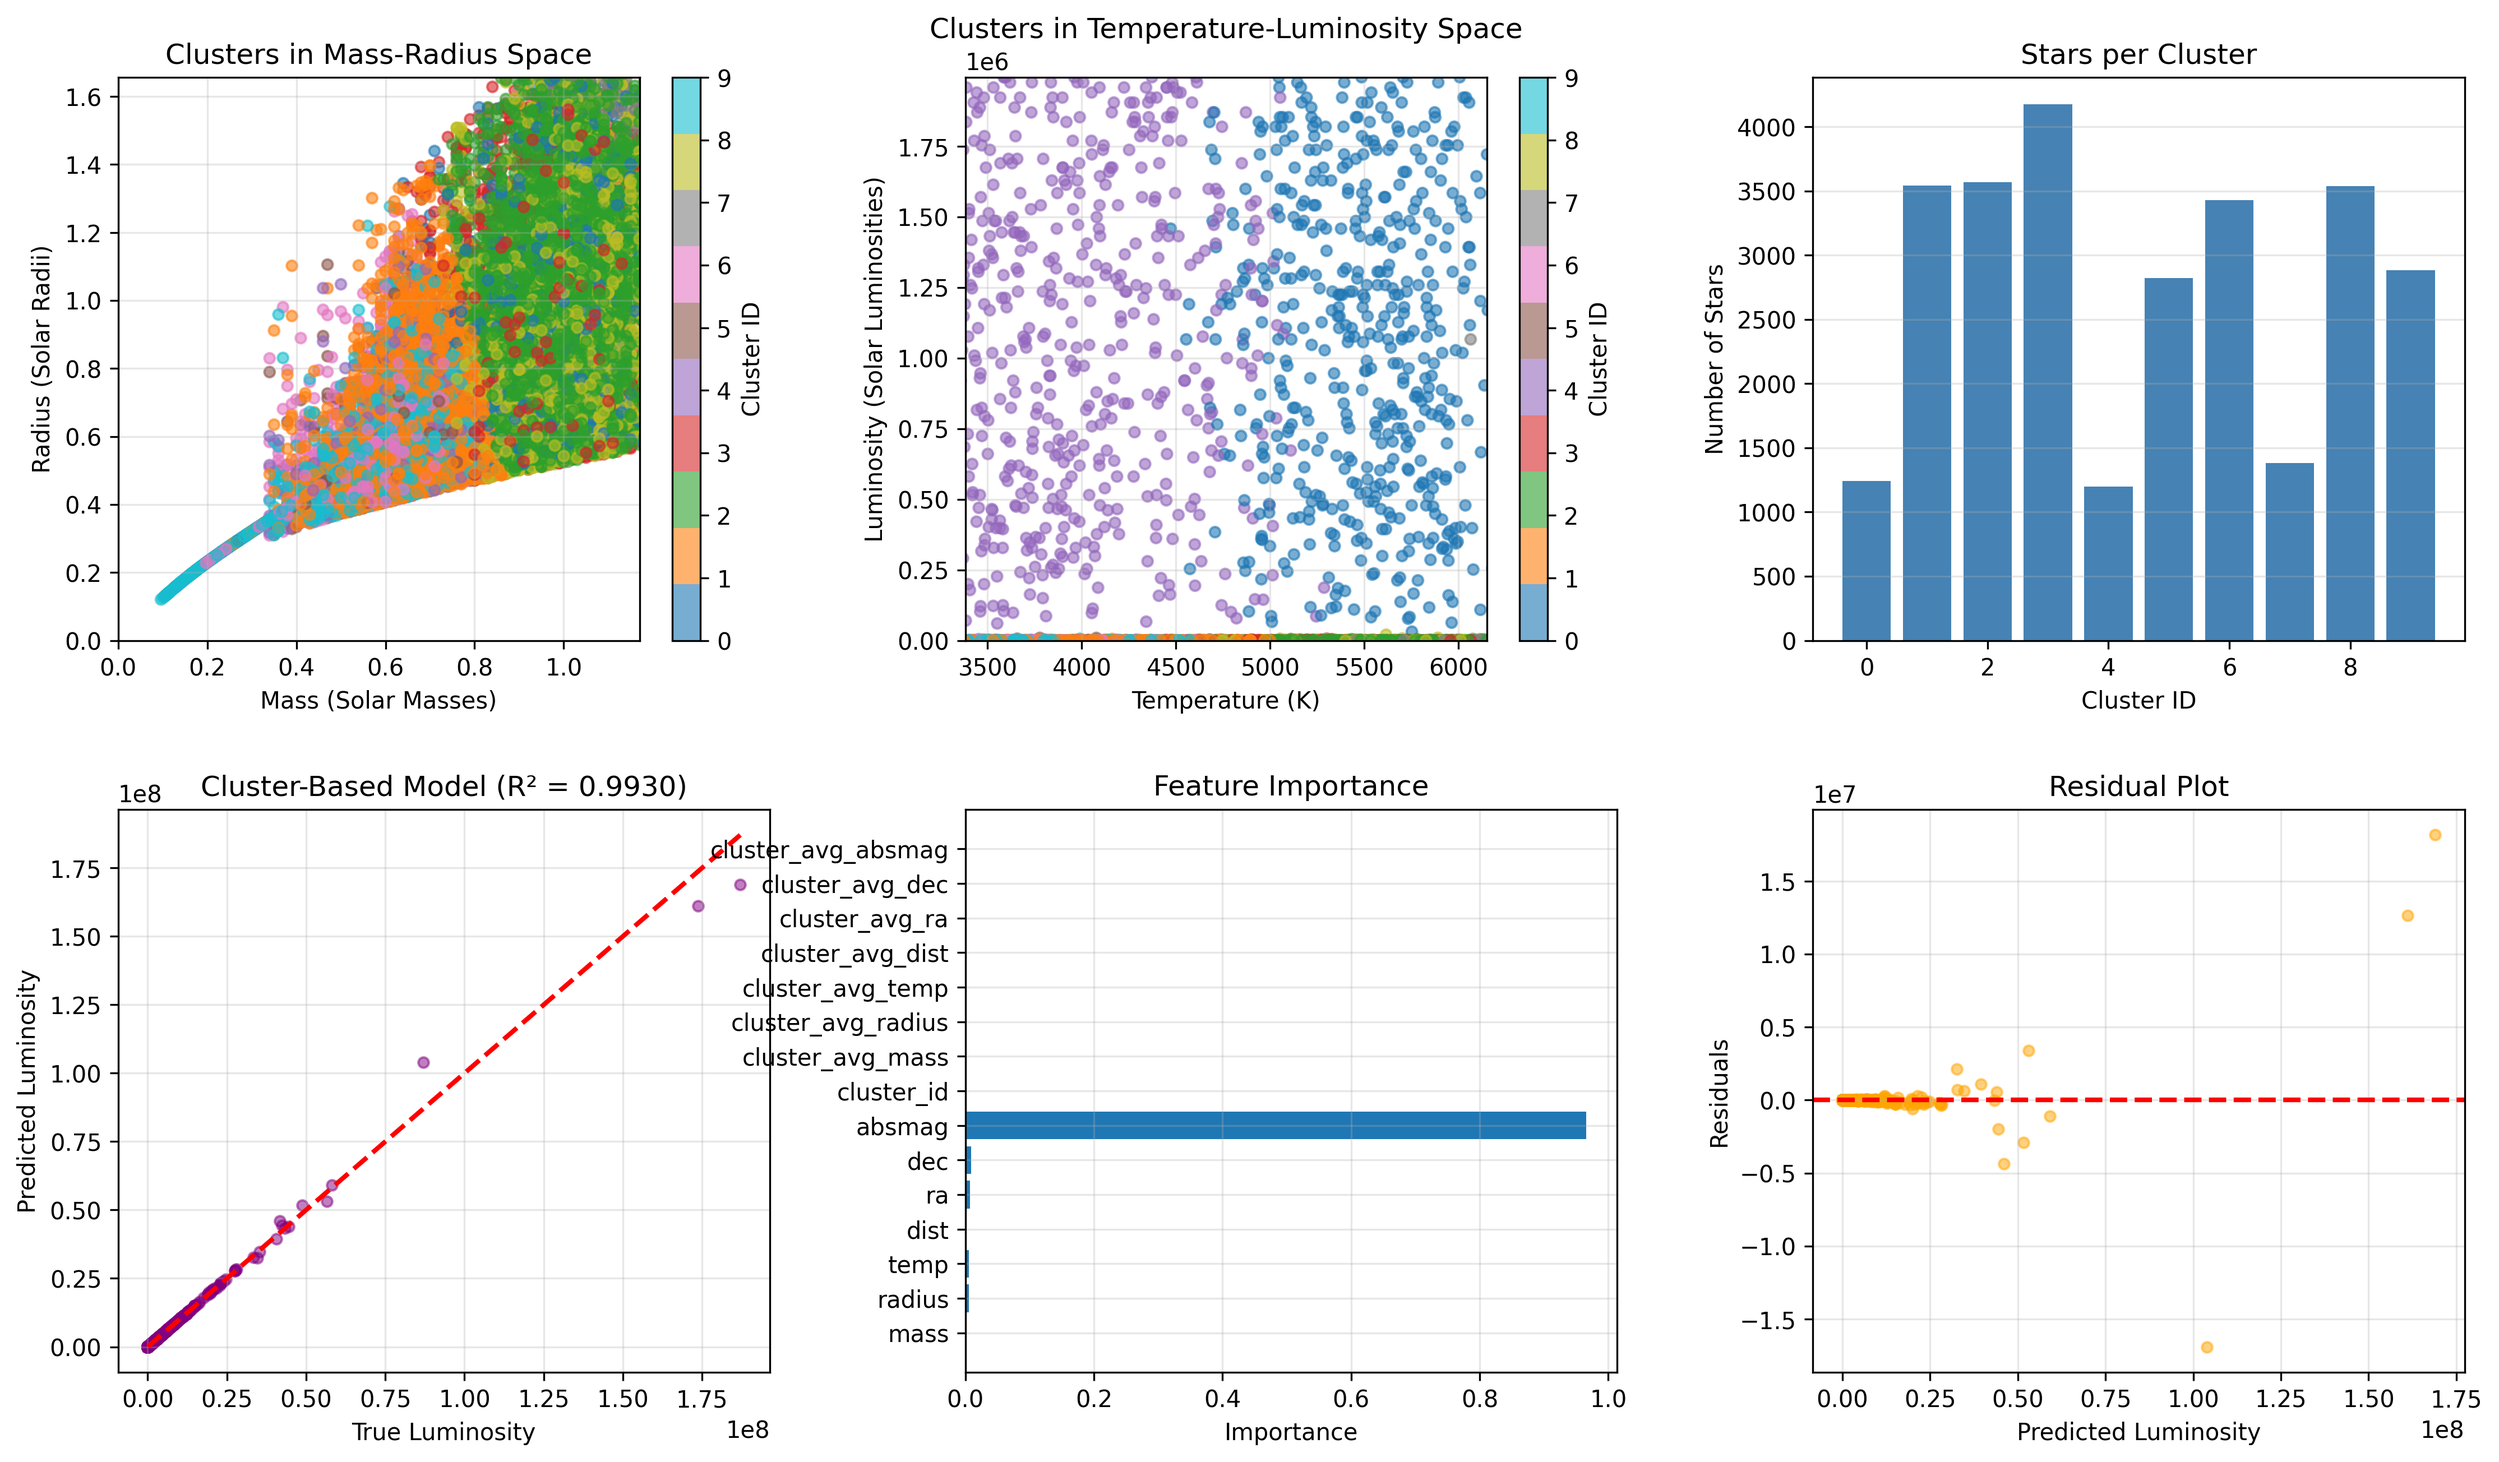
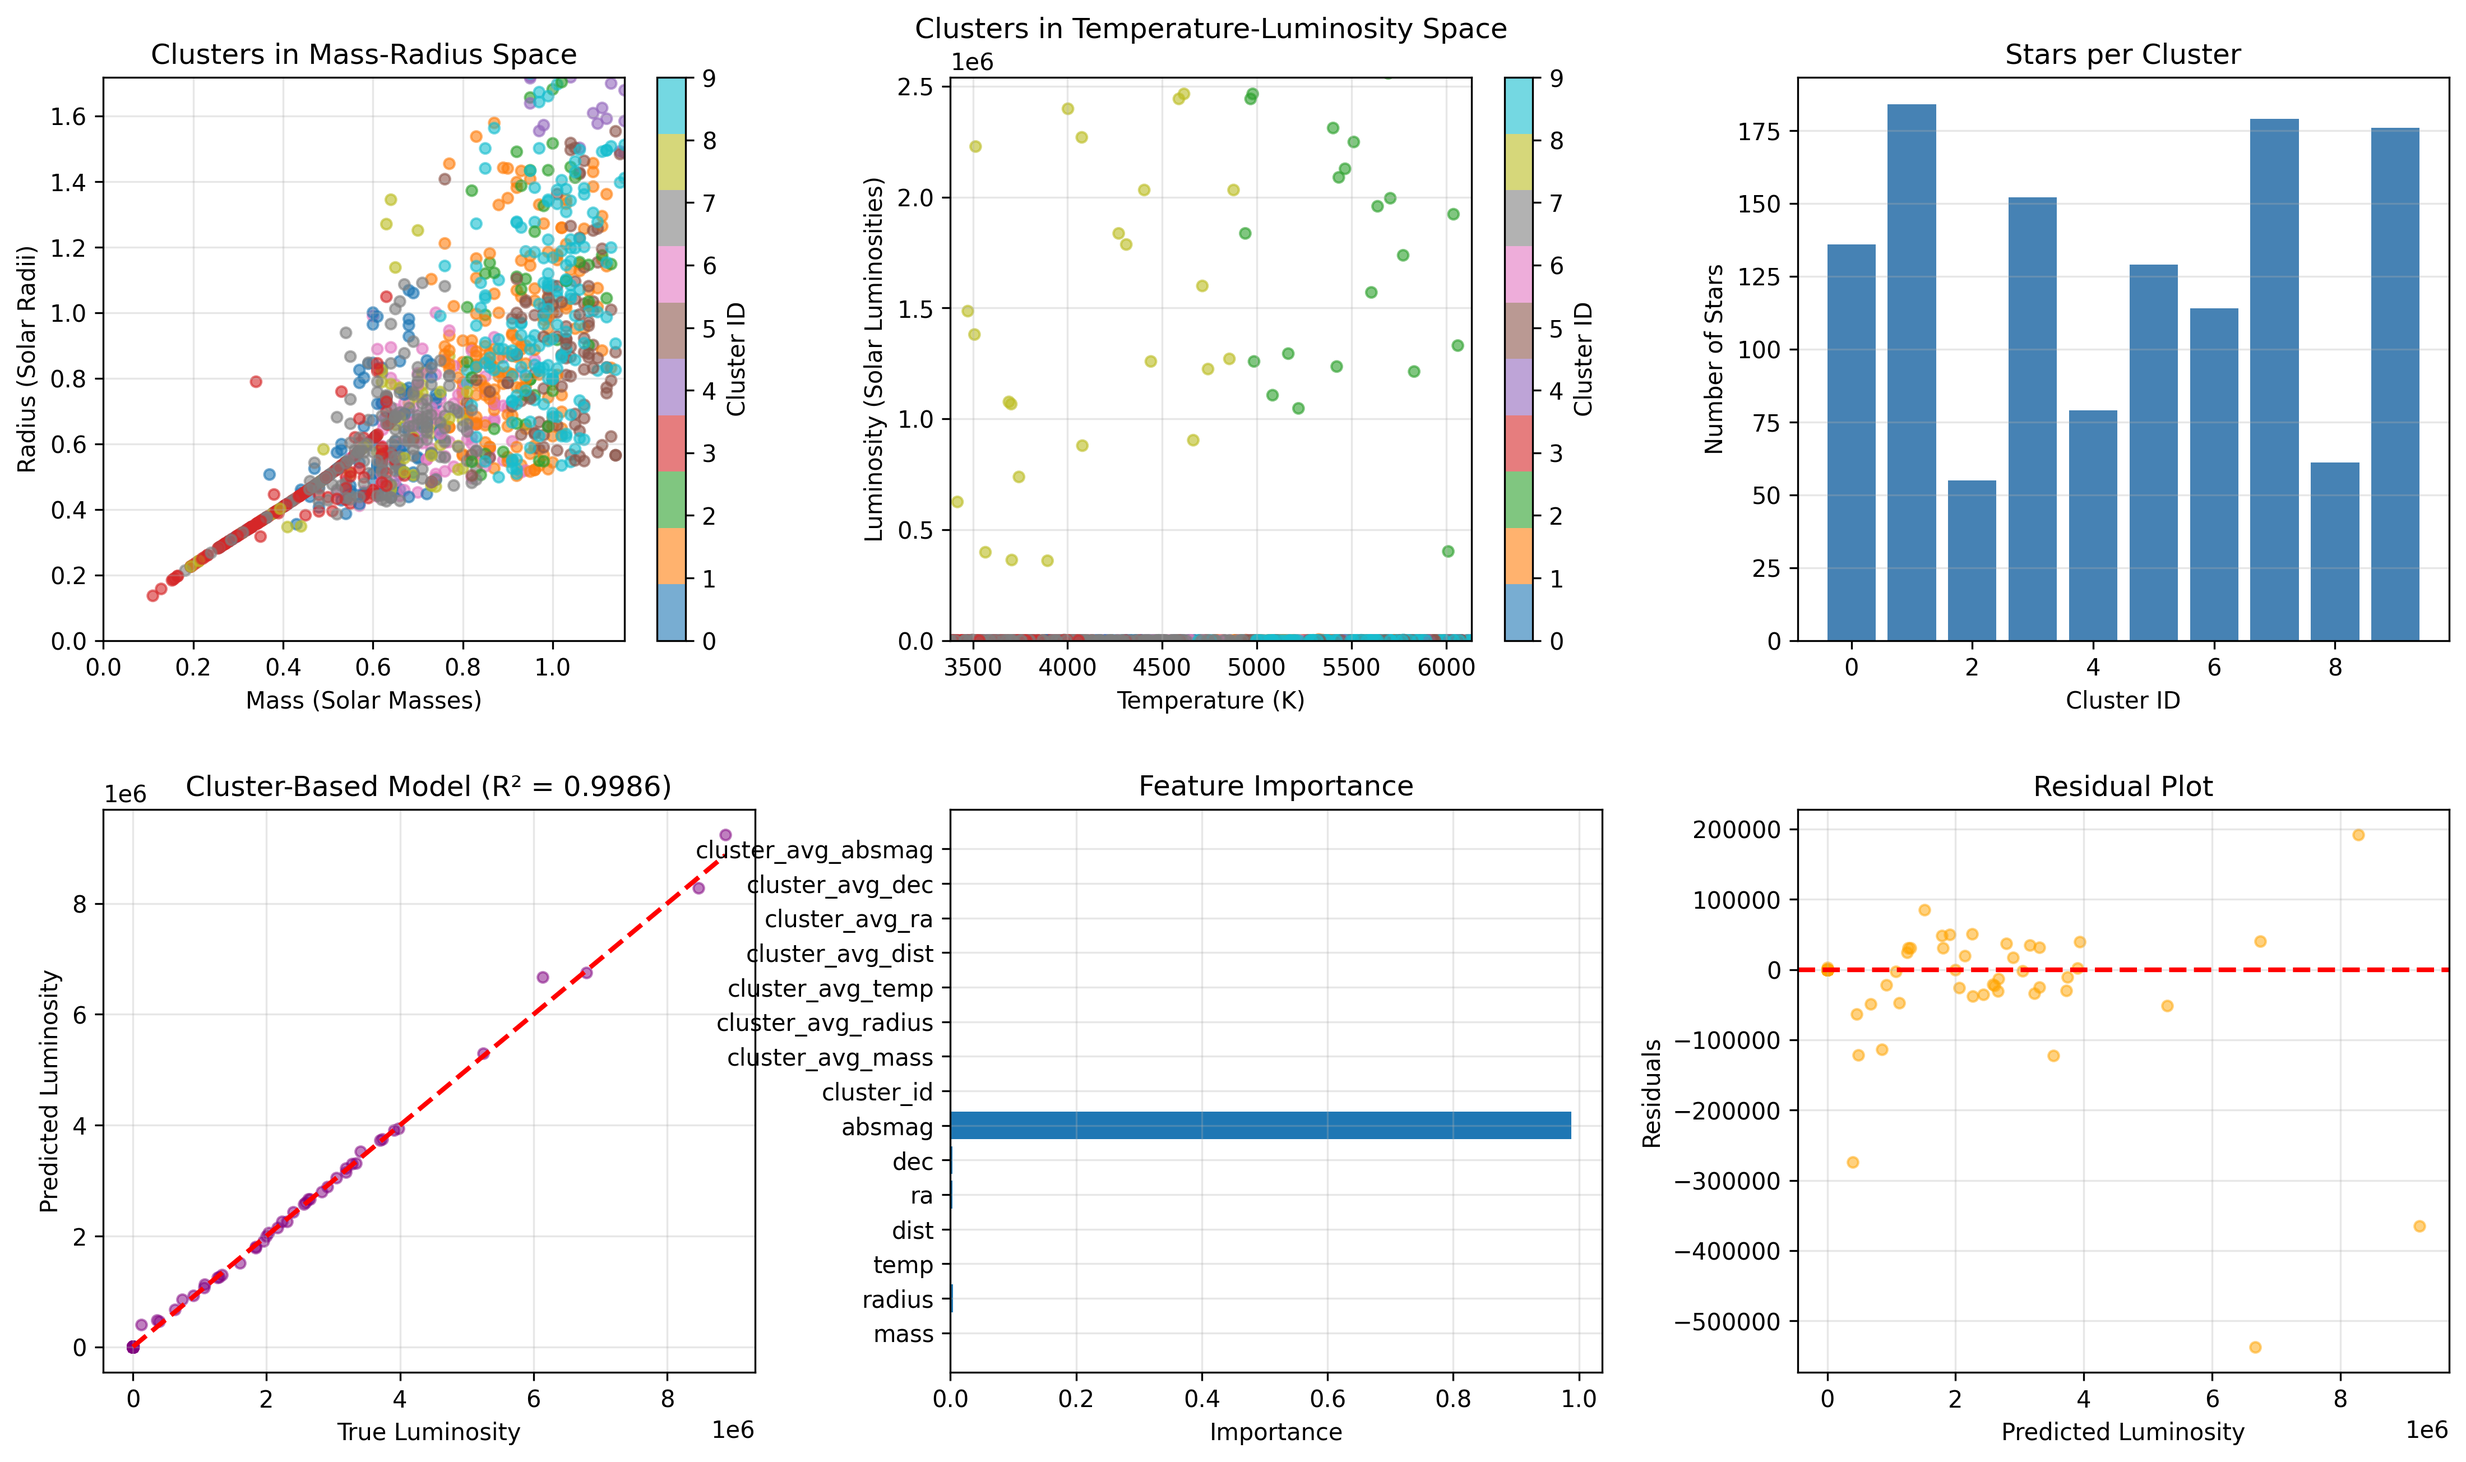
ML Model Modifications

diff --git a/model/star_model.py b/model/star_model.py
@@ -1,6 +1,9 @@
 #Necessary imports for all models
+import warnings
+
 import pandas as pd
 import numpy as np
+from pandas.errors import SettingWithCopyWarning
 from sklearn.cluster import KMeans
 from sklearn.model_selection import train_test_split
 from sklearn.ensemble import RandomForestRegressor, GradientBoostingRegressor
@@ -10,13 +13,22 @@ from sklearn.metrics import mean_squared_error, r2_score, mean_absolute_error
 import matplotlib.pyplot as plt
 import networkx as nx
 from abc import ABC, abstractmethod
+from pathlib import Path
+
+# Get the script's directory
+script_dir = Path(__file__).parent.parent
+
+# Build the path to your file
+file_path = script_dir / 'data' / 'hyg_v42_updated.csv'
+
+graph_path = script_dir / 'view'
 
 
 #Abstract base class for ML Models
 class MLModel(ABC):
     #Constructor includes filepath to be used along with the amount of rows
     #that will be used from the file
-    def __init__(self, csv_path="data/hyg_v42_updated.csv", nrows=None):
+    def __init__(self, csv_path=file_path, nrows=None):
 
         #If there is a given value of rows, read the file up until that row
         if nrows:
@@ -132,7 +144,7 @@ class MLModel(ABC):
 
 class TradModel(MLModel):
 
-    def __init__(self, csv_path="data/hyg_v42_updated.csv", nrows=30000):
+    def __init__(self, csv_path=file_path, nrows=30000):
         super().__init__(csv_path, nrows)
         self.required_features = ['mass', 'radius', 'temp', 'dist', 'absmag']
         self.target = 'lum'
@@ -176,7 +188,7 @@ class TradModel(MLModel):
         self.y_pred = self.model.predict(self.X_test)
 
     def input_predict(self, star_id):
-        stardata = pd.read_csv("data/hyg_v42_updated.csv")
+        stardata = pd.read_csv(file_path)
 
         star_row = stardata[stardata['id'].astype(str) == str(star_id)]
 
@@ -232,7 +244,7 @@ class TradModel(MLModel):
 
 class GraphModel(MLModel):
 
-    def __init__(self, csv_path="data/hyg_v42_updated.csv", nrows=30000, k_neighbors=5):
+    def __init__(self, csv_path=file_path, nrows=30000, k_neighbors=5):
         super().__init__(csv_path, nrows)
         self.required_features = ['ra', 'dec', 'mass', 'radius', 'temp', 'dist', 'absmag', 'lum']
         self.k_neighbors = k_neighbors
@@ -348,12 +360,12 @@ class GraphModel(MLModel):
 
         fig, axes = plt.subplots(1, 3, figsize=(18, 5))
 
-        sample_nodes = list(self.graph.nodes())[:100]
+        sample_nodes = list(self.graph.nodes())[:1000]
         subgraph = self.graph.subgraph(sample_nodes)
         pos = {node: (self.graph.nodes[node]['ra'], self.graph.nodes[node]['dec'])
                for node in subgraph.nodes()}
 
-        axes[0].set_title("Graph Structure (100 Stars)")
+        axes[0].set_title("Graph Structure (1000 Stars)")
         nx.draw_networkx_nodes(subgraph, pos, node_size=20, node_color='lightblue', ax=axes[0])
         nx.draw_networkx_edges(subgraph, pos, alpha=0.3, ax=axes[0])
         axes[0].set_xlabel('Right Ascension')
@@ -385,7 +397,7 @@ class GraphModel(MLModel):
 '''================================================================================================================================================================'''
 
 class ClusterModel(MLModel):
-    def __init__(self, csv_path="data/hyg_v42_updated.csv", nrows=30000, n_clusters=10):
+    def __init__(self, csv_path=file_path, nrows=30000, n_clusters=10):
         super().__init__(csv_path, nrows)
         self.required_features = ['mass', 'radius', 'temp', 'dist', 'ra', 'dec', 'absmag', 'lum']
         self.n_clusters = n_clusters
@@ -610,7 +622,7 @@ class ModelTrainer:
         self.strategy.get_featimp()
 
         # Visualize
-        filename = f"{self.strategy.__class__.__name__.lower()}_results.png"
+        filename = f"{graph_path}//{self.strategy.__class__.__name__.lower()}_results.png"
         self.strategy.visualize_model(filename)
 
         return results
@@ -620,12 +632,14 @@ class ModelTrainer:
 '''================================================================================================================================================================'''
 
 if __name__ == '__main__':
+    warnings.filterwarnings('ignore', category=SettingWithCopyWarning)
+
     # Strategy 1: Traditional ML
     print("\n" + "=" * 60)
     print("STRATEGY 1: TRADITIONAL ML MODEL")
     print("=" * 60)
 
-    traditional_model = TradModel(nrows=None)
+    traditional_model = TradModel(nrows=5000)
     trainer = ModelTrainer(traditional_model)
     results_traditional = trainer.run_training_pipeline()
 
@@ -634,7 +648,7 @@ if __name__ == '__main__':
     print("STRATEGY 2: GRAPH-BASED ML MODEL")
     print("=" * 60)
 
-    graph_model = GraphModel(nrows=None, k_neighbors=5)
+    graph_model = GraphModel(nrows=5000, k_neighbors=5)
     trainer.set_strategy(graph_model)
     results_graph = trainer.run_training_pipeline()
 
@@ -643,7 +657,7 @@ if __name__ == '__main__':
     print("STRATEGY 3: CLUSTER-BASED ML MODEL")
     print("=" * 60)
 
-    cluster_model = ClusterModel(nrows=None, n_clusters=10)
+    cluster_model = ClusterModel(nrows=5000, n_clusters=10)
     trainer.set_strategy(cluster_model)
     results_cluster = trainer.run_training_pipeline()
 
